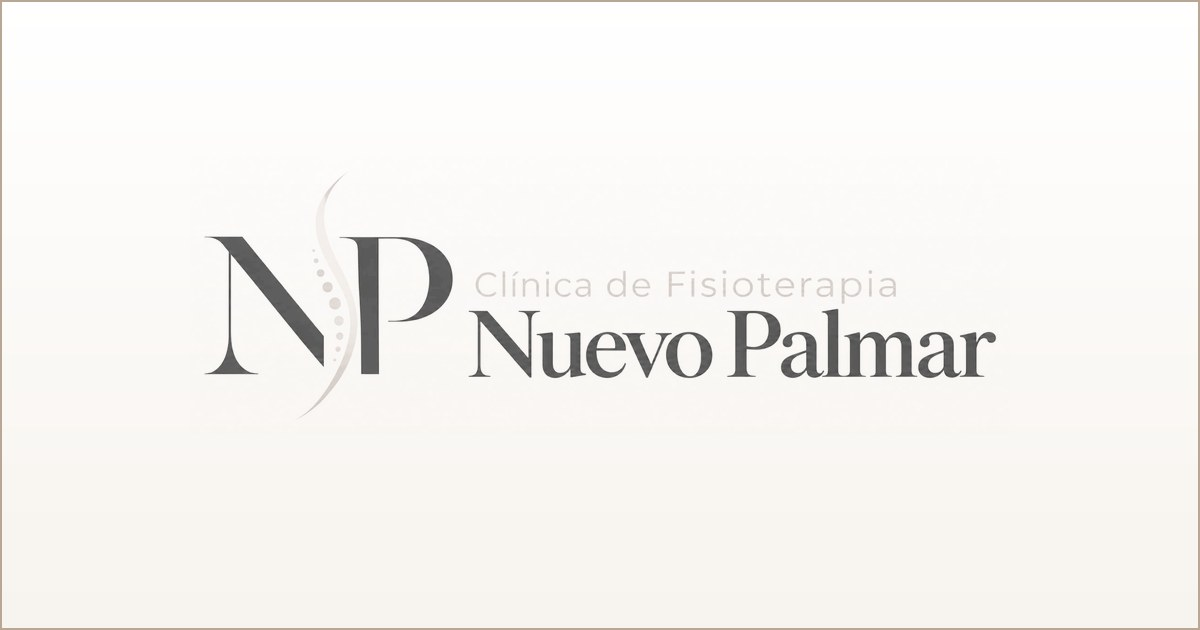
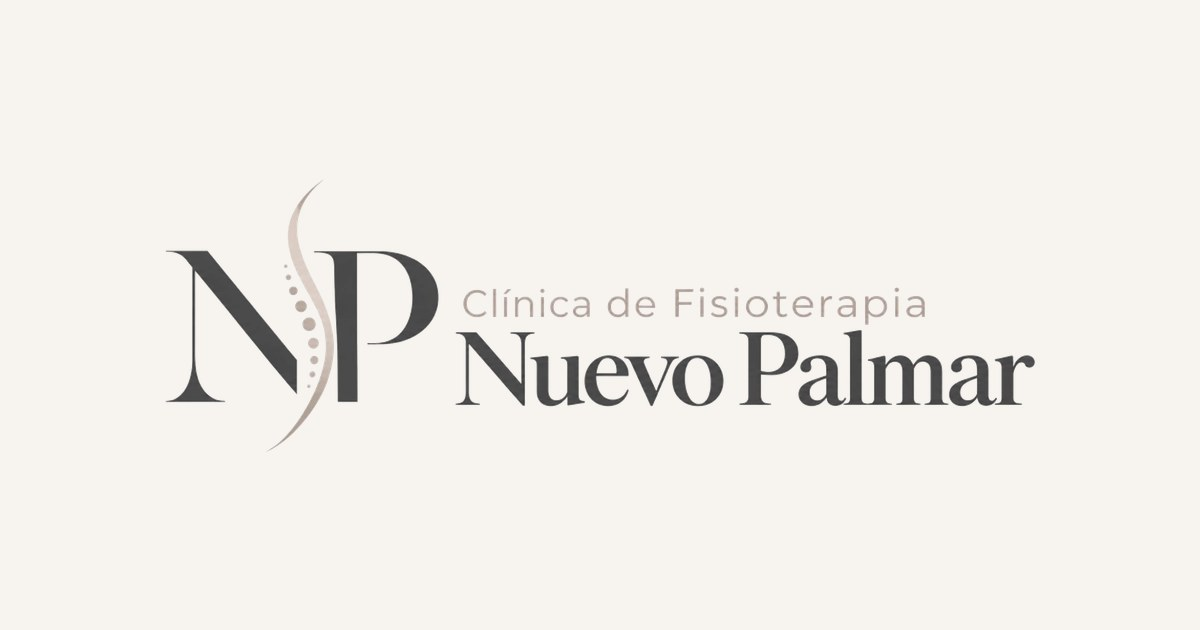
Web pública: logotipo de la clínica con la columna beige visible y rótulos decorativos sin contorno
- Regenerados logo-clinica.png, logo-clinica-claro.png, favicon.png y og.jpg: la transparencia ya no borra el detalle beige entre la N y la P.
- Las palabras de fondo (NP, Filosofía, Compromiso) pasan de contorno remarcado a beige liso muy suave.

Claude-Session: https://claude.ai/code/session_01DcRGVrn6nGrNoi5FNAboLw

Changed region(s): [[0.1233, 0.3317, 0.8633, 0.6635], [0.0, 0.0, 1.0, 1.0], [0.2467, 0.3016, 0.2775, 0.3317]]

diff --git a/index.html b/index.html
@@ -109,9 +109,9 @@
             html { scroll-behavior: auto; }
         }
 
-        /* Rótulos decorativos en beige claro con contorno fino antracita */
-        .outline-text { color: #EDE4DB; -webkit-text-stroke: 1px rgba(58,58,58,.55); text-shadow: 0 1px 0 rgba(255,255,255,.6); }
-        .outline-text-dark { color: transparent; -webkit-text-stroke: 1px rgba(185,167,149,.45); }
+        /* Palabras decorativas de fondo: beige muy suave, sin contorno */
+        .outline-text { color: #E9E0D6; -webkit-text-stroke: 0; text-shadow: none; }
+        .outline-text-dark { color: rgba(185,167,149,.16); -webkit-text-stroke: 0; }
 
         .custom-scrollbar::-webkit-scrollbar { width: 8px; height: 8px; }
         .custom-scrollbar::-webkit-scrollbar-track { background: #F7F3EE; }
@@ -681,7 +681,7 @@
                     </section>
 
                     <section id="filosofia" className="pt-36 pb-20 md:pt-52 md:pb-28 bg-sand-ivory relative overflow-hidden">
-                        <span aria-hidden="true" className="absolute -top-4 md:-top-8 left-1/2 -translate-x-1/2 font-serif outline-text text-[5rem] md:text-[12rem] leading-none select-none whitespace-nowrap opacity-80">Filosofía</span>
+                        <span aria-hidden="true" className="absolute -top-4 md:-top-8 left-1/2 -translate-x-1/2 font-serif outline-text text-[5rem] md:text-[12rem] leading-none select-none whitespace-nowrap">Filosofía</span>
                         <div className="relative max-w-4xl mx-auto px-4 sm:px-6 lg:px-8 text-center">
                             <Reveal>
                                 <Eyebrow className="justify-center">{f.label}</Eyebrow>
